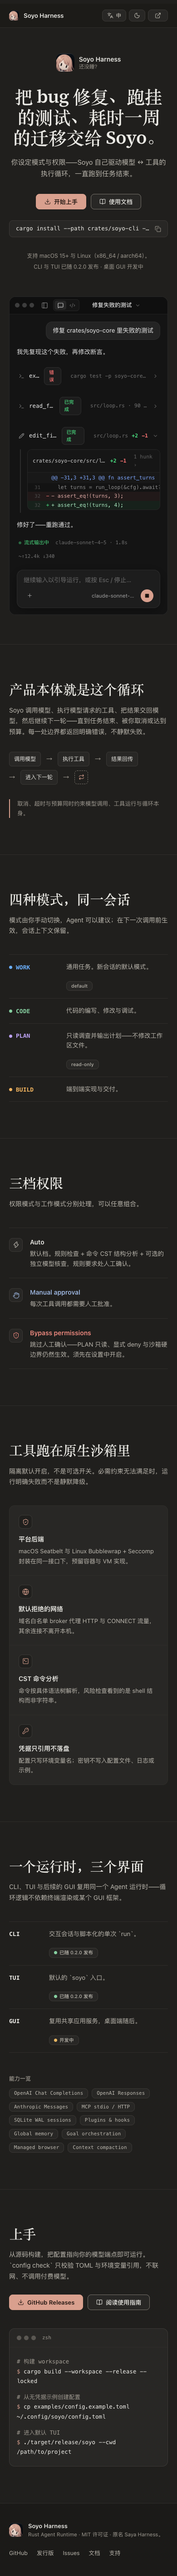
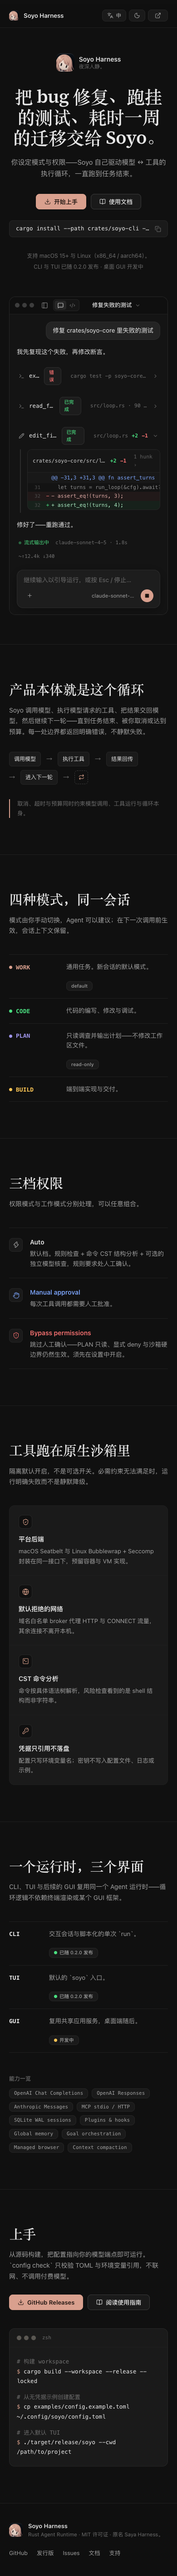
feat(site): match dark theme to the desktop app palette
Replace the warm Soyo Dark design-doc values with the neutral
grays the shipping app actually uses (desktop/src/index.css):
#101010/#0f0f0f/#1a1a1a surfaces, #1f1f1f/#262626/#3a3a3a
borders, #e8e8e8/#a3a3a3/#6e6e6e text, and the real mode colors
from WORK_MODE_STYLES. The light theme keeps the Soyo Light
spec values since the app ships dark-only today.

diff --git a/site/src/index.css b/site/src/index.css
@@ -11,43 +11,44 @@
 }
 
 /* ------------------------------------------------------------------
-   Soyo site theme tokens — mirrors docs/design/desktop-ui.md §8.2.
-   Dark values are Soyo Dark, light values are Soyo Light.
+   Soyo site theme tokens. Dark values mirror the shipping desktop
+   app (desktop/src/index.css); light values are Soyo Light from
+   docs/design/desktop-ui.md §8.2 — the app ships dark-only today.
    ------------------------------------------------------------------ */
 
 :root,
 :root[data-theme="dark"] {
   color-scheme: dark;
 
-  --surface-sidebar: #1b1a18;
-  --surface-app: #201f1d;
-  --surface-raised: #282725;
-  --surface-overlay: #2d2c29;
-  --surface-hover: #34322f;
-  --border-subtle: #2f2d2a;
-  --border: #3a3835;
-  --border-strong: #76716a;
-  --text-primary: #ecebe6;
-  --text-secondary: #bdb9b0;
-  --text-tertiary: #a09b92;
+  --surface-sidebar: #0f0f0f;
+  --surface-app: #101010;
+  --surface-raised: #1a1a1a;
+  --surface-overlay: #1c1c1c;
+  --surface-hover: #242424;
+  --border-subtle: #1f1f1f;
+  --border: #262626;
+  --border-strong: #3a3a3a;
+  --text-primary: #e8e8e8;
+  --text-secondary: #a3a3a3;
+  --text-tertiary: #6e6e6e;
   --accent: #d9a08e;
-  --accent-hover: #e4b3a3;
+  --accent-hover: #e2a68f;
   --accent-pressed: #cf9480;
-  --accent-text: #d9a08e;
-  --on-accent: #1f140f;
-  --info: #9db6e0;
-  --success: #86cfa0;
-  --warning: #e9b762;
-  --danger: #f08a80;
+  --accent-text: #e2a68f;
+  --on-accent: #1c120e;
+  --info: #7aa2f7;
+  --success: #4ade80;
+  --warning: #fac454;
+  --danger: #f87171;
 
-  --mode-work: #6aaefc;
-  --mode-code: #86cfa0;
-  --mode-plan: #bea3f5;
-  --mode-build: #efb25e;
+  --mode-work: #d9a08e;
+  --mode-code: #4ade80;
+  --mode-plan: #a096eb;
+  --mode-build: #fac454;
 
   --shadow-popover: 0 8px 24px rgba(0, 0, 0, 0.45);
   --shadow-dialog: 0 24px 64px rgba(0, 0, 0, 0.55);
-  --semantic-bg-alpha: 0.12;
+  --semantic-bg-alpha: 0.07;
 }
 
 :root[data-theme="light"] {

diff --git a/site/index.html b/site/index.html
@@ -5,7 +5,7 @@
     <meta name="viewport" content="width=device-width, initial-scale=1.0" />
     <link rel="icon" type="image/png" href="/app-icon.png" />
     <meta name="description" content="Soyo Harness — a Rust agent runtime that drives the model ↔ tool loop itself. CLI and TUI today, desktop next." />
-    <meta name="theme-color" content="#201f1d" />
+    <meta name="theme-color" content="#101010" />
     <title>Soyo Harness — Rust Agent Runtime</title>
     <script>
       // Resolve the effective theme before first paint (D-076: cache key `soyo.theme`

diff --git a/site/download.html b/site/download.html
@@ -5,7 +5,7 @@
     <meta name="viewport" content="width=device-width, initial-scale=1.0" />
     <link rel="icon" type="image/png" href="/app-icon.png" />
     <meta name="description" content="Download Soyo Harness — prebuilt archives for macOS 15+ and Linux, or build the Rust agent runtime from source." />
-    <meta name="theme-color" content="#201f1d" />
+    <meta name="theme-color" content="#101010" />
     <title>Download — Soyo Harness</title>
     <script>
       (function () {
